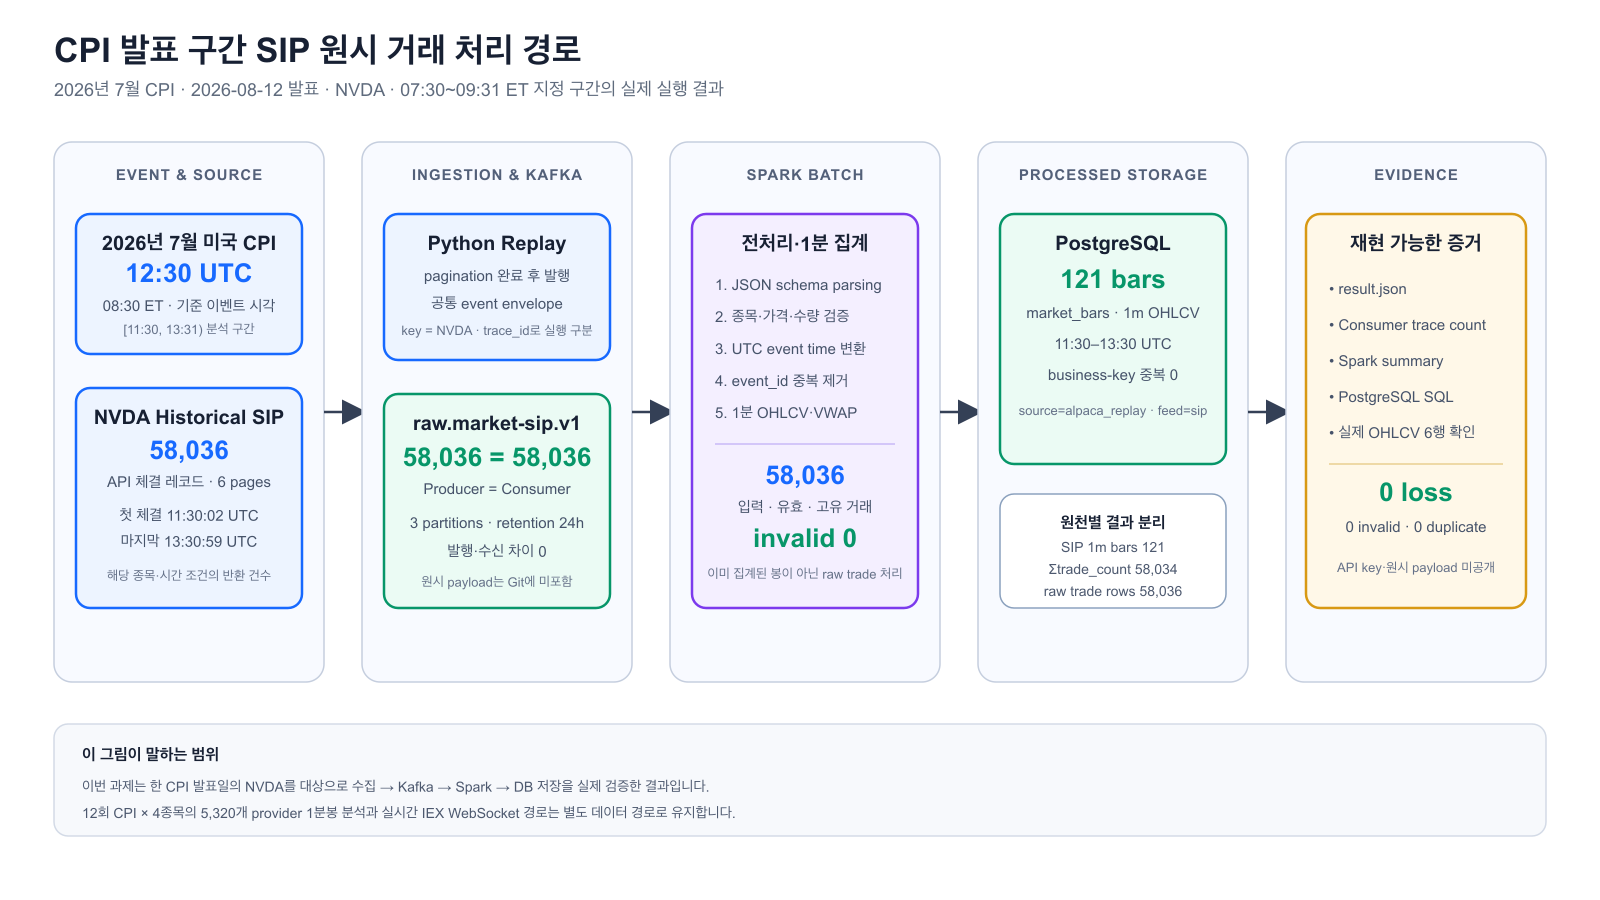
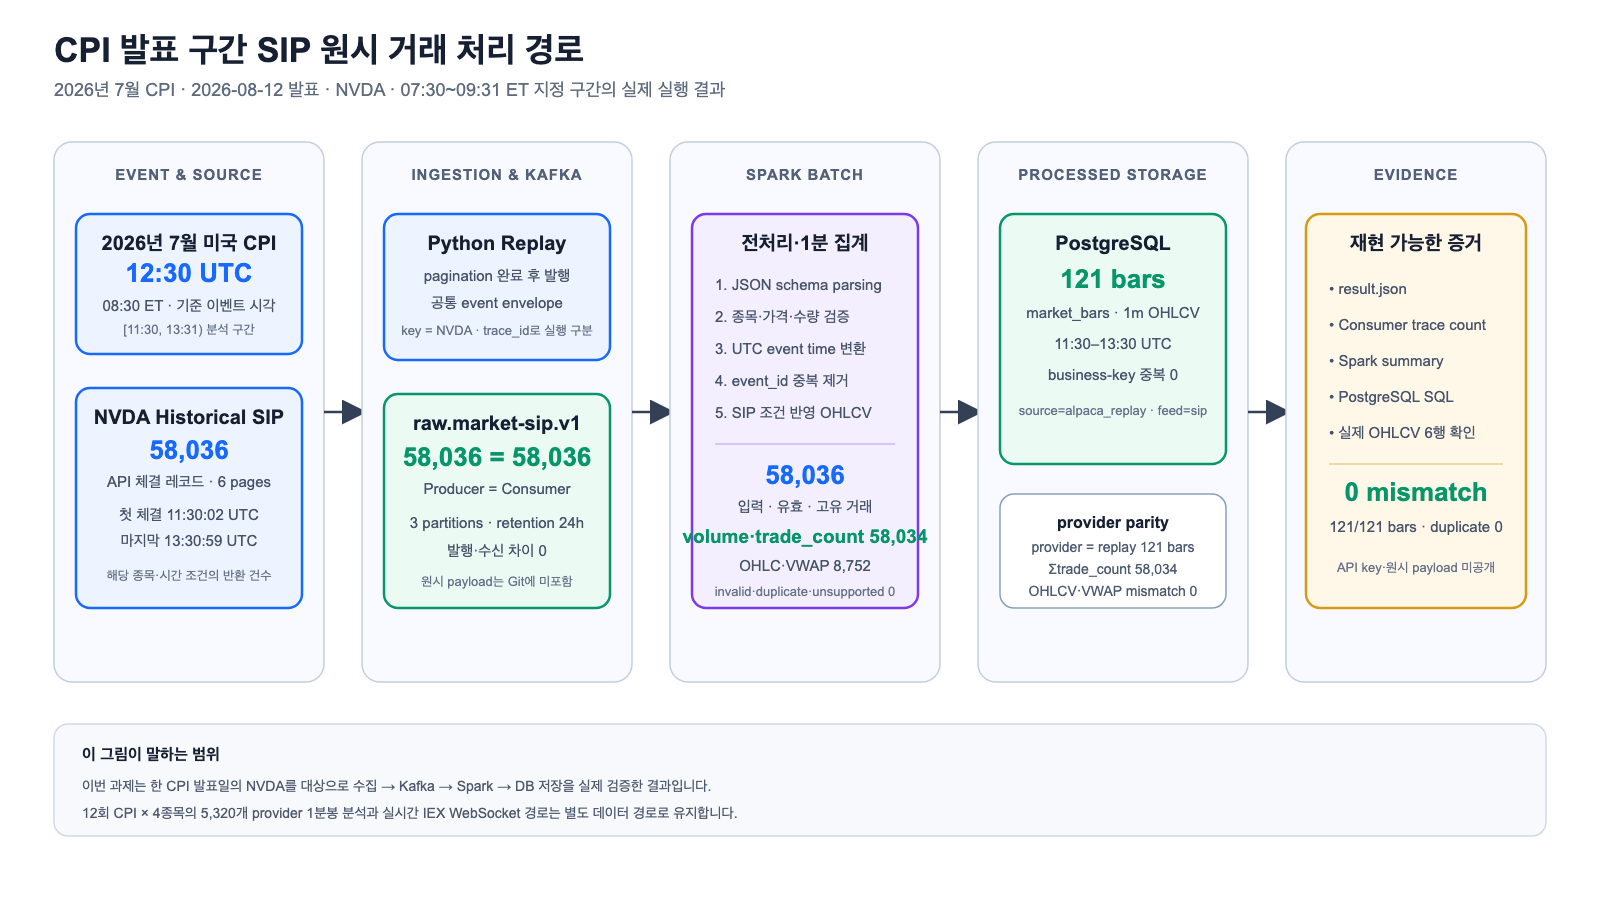
Restore project architecture diagrams

diff --git a/tests/test_assignment_docs.py b/tests/test_assignment_docs.py
@@ -31,6 +31,15 @@ class AssignmentDocumentationTest(unittest.TestCase):
         positions = [readme.index(heading) for heading in headings]
 
         self.assertEqual(positions, sorted(positions))
+        self.assertIn(
+            "![전체 프로젝트 데이터 파이프라인 아키텍처]"
+            "(docs/diagrams/pipeline-architecture.png)",
+            readme,
+        )
+        self.assertNotIn(
+            "![CPI 발표 구간 SIP Kafka Spark 처리 경로]",
+            readme,
+        )
 
     def test_kafka_assignment_uses_the_cpi_release_window(self) -> None:
         readme = Path("README.md").read_text(encoding="utf-8")
@@ -100,16 +109,22 @@ class AssignmentDocumentationTest(unittest.TestCase):
     def test_architecture_source_distinguishes_current_and_planned_flow(self) -> None:
         diagram = Path("docs/diagrams/pipeline-architecture.svg").read_text(encoding="utf-8")
 
-        self.assertIn("Alpaca IEX", diagram)
-        self.assertIn("Kafka raw.market.v1", diagram)
-        self.assertIn("Spark Streaming", diagram)
+        self.assertIn("BLS · ALFRED · Alpaca SIP", diagram)
+        self.assertIn("raw.market-sip.v1", diagram)
+        self.assertIn("Spark Batch / Streaming", diagram)
         self.assertIn("market_bars", diagram)
-        self.assertIn("현재 구현 경로", diagram)
-        self.assertIn("WebSocket · Kafka까지 검증", diagram)
-        self.assertIn("Historical REST · DB까지 검증", diagram)
-        self.assertIn("다음 단계", diagram)
-        self.assertIn("Airflow Batch", diagram)
-        self.assertIn("Analysis / BI", diagram)
+        self.assertIn("economic_events", diagram)
+        self.assertIn("macro_event_impacts", diagram)
+        self.assertIn("현재 구현", diagram)
+        self.assertIn("후속 확장", diagram)
+        self.assertIn("Airflow orchestration", diagram)
+
+        assignment_diagram = Path(
+            "docs/diagrams/cpi-sip-kafka-spark-assignment.svg"
+        ).read_text(encoding="utf-8")
+        self.assertIn("volume·trade_count 58,034", assignment_diagram)
+        self.assertIn("OHLC·VWAP 8,752", assignment_diagram)
+        self.assertIn("provider parity", assignment_diagram)
 
     def test_gitignore_excludes_local_secrets_and_runtime_artifacts(self) -> None:
         patterns = Path(".gitignore").read_text(encoding="utf-8").splitlines()

diff --git a/docs/diagrams/README.md b/docs/diagrams/README.md
@@ -4,8 +4,10 @@
 
 | 파일 | 용도 |
 | --- | --- |
-| `pipeline-architecture.svg` | 편집 가능한 정본. 텍스트, 색상, 현재/예정 흐름을 수정할 때 사용 |
-| `pipeline-architecture.png` | GitHub README와 발표에서 바로 확인하는 렌더 결과 |
+| `pipeline-architecture.svg` | 전체 프로젝트 정본. 현재 구현된 두 데이터 경로와 후속 확장을 구분 |
+| `pipeline-architecture.png` | 루트 README에서 사용하는 전체 프로젝트 렌더 결과 |
+| `cpi-sip-kafka-spark-assignment.svg` | 한 CPI 발표일의 Kafka·Spark 과제 실행 정본 |
+| `cpi-sip-kafka-spark-assignment.png` | 과제 문서와 발표에서 사용하는 실행 결과 렌더 |
 
 다이어그램은 기술 목록이 아니라 다음 데이터 이동 순서를 기준으로 읽는다.
 
@@ -18,9 +20,8 @@ Data Source
 → Analysis / BI
 ```
 
-- 파란색·초록색 실선: 현재 구현된 코드 경로. 실행 증거의 끝은 화살표 설명으로 구분
-- 보라색 점선: 다음 회차에서 구현할 배치·분석 경로
-- 현재 경로: WebSocket은 Kafka까지 검증, Historical REST는 PostgreSQL까지 검증
-- 다음 경로: 공식 경제지표·FRED·Historical SIP → Airflow → 영향 분석 → BI
+- 파란색·초록색·주황색 실선: 현재 구현하고 실행 결과를 검증한 경로
+- 보라색 점선: Airflow 자동화, API·Dashboard와 strategy backtest 등 후속 경로
+- 루트 README에는 전체 프로젝트 그림만 배치하고, 과제 실행 그림은 과제 문서에서만 사용한다.
 
 PNG를 수정한 뒤에는 SVG 정본과 내용이 같은지, 글자가 잘리거나 lane 경계를 침범하지 않는지 확인한다.

diff --git a/README.md b/README.md
@@ -27,6 +27,8 @@
 
 ## 데이터 흐름
 
+![전체 프로젝트 데이터 파이프라인 아키텍처](docs/diagrams/pipeline-architecture.png)
+
 ```text
 BLS 공식 CPI 발표 시각
         +
@@ -56,8 +58,6 @@ PostgreSQL market_bars
 ```
 
 같은 CPI 발표 구간의 SIP 원시 체결 전체를 Kafka·Spark로 재생합니다. 이미 만들어진 1분봉을 Kafka에 넣는 것이 아니라, Spark가 원시 체결을 직접 검증·중복 제거·1분 집계합니다.
-
-![CPI 발표 구간 SIP Kafka Spark 처리 경로](docs/diagrams/cpi-sip-kafka-spark-assignment.png)
 
 ## 데이터 출처
 
